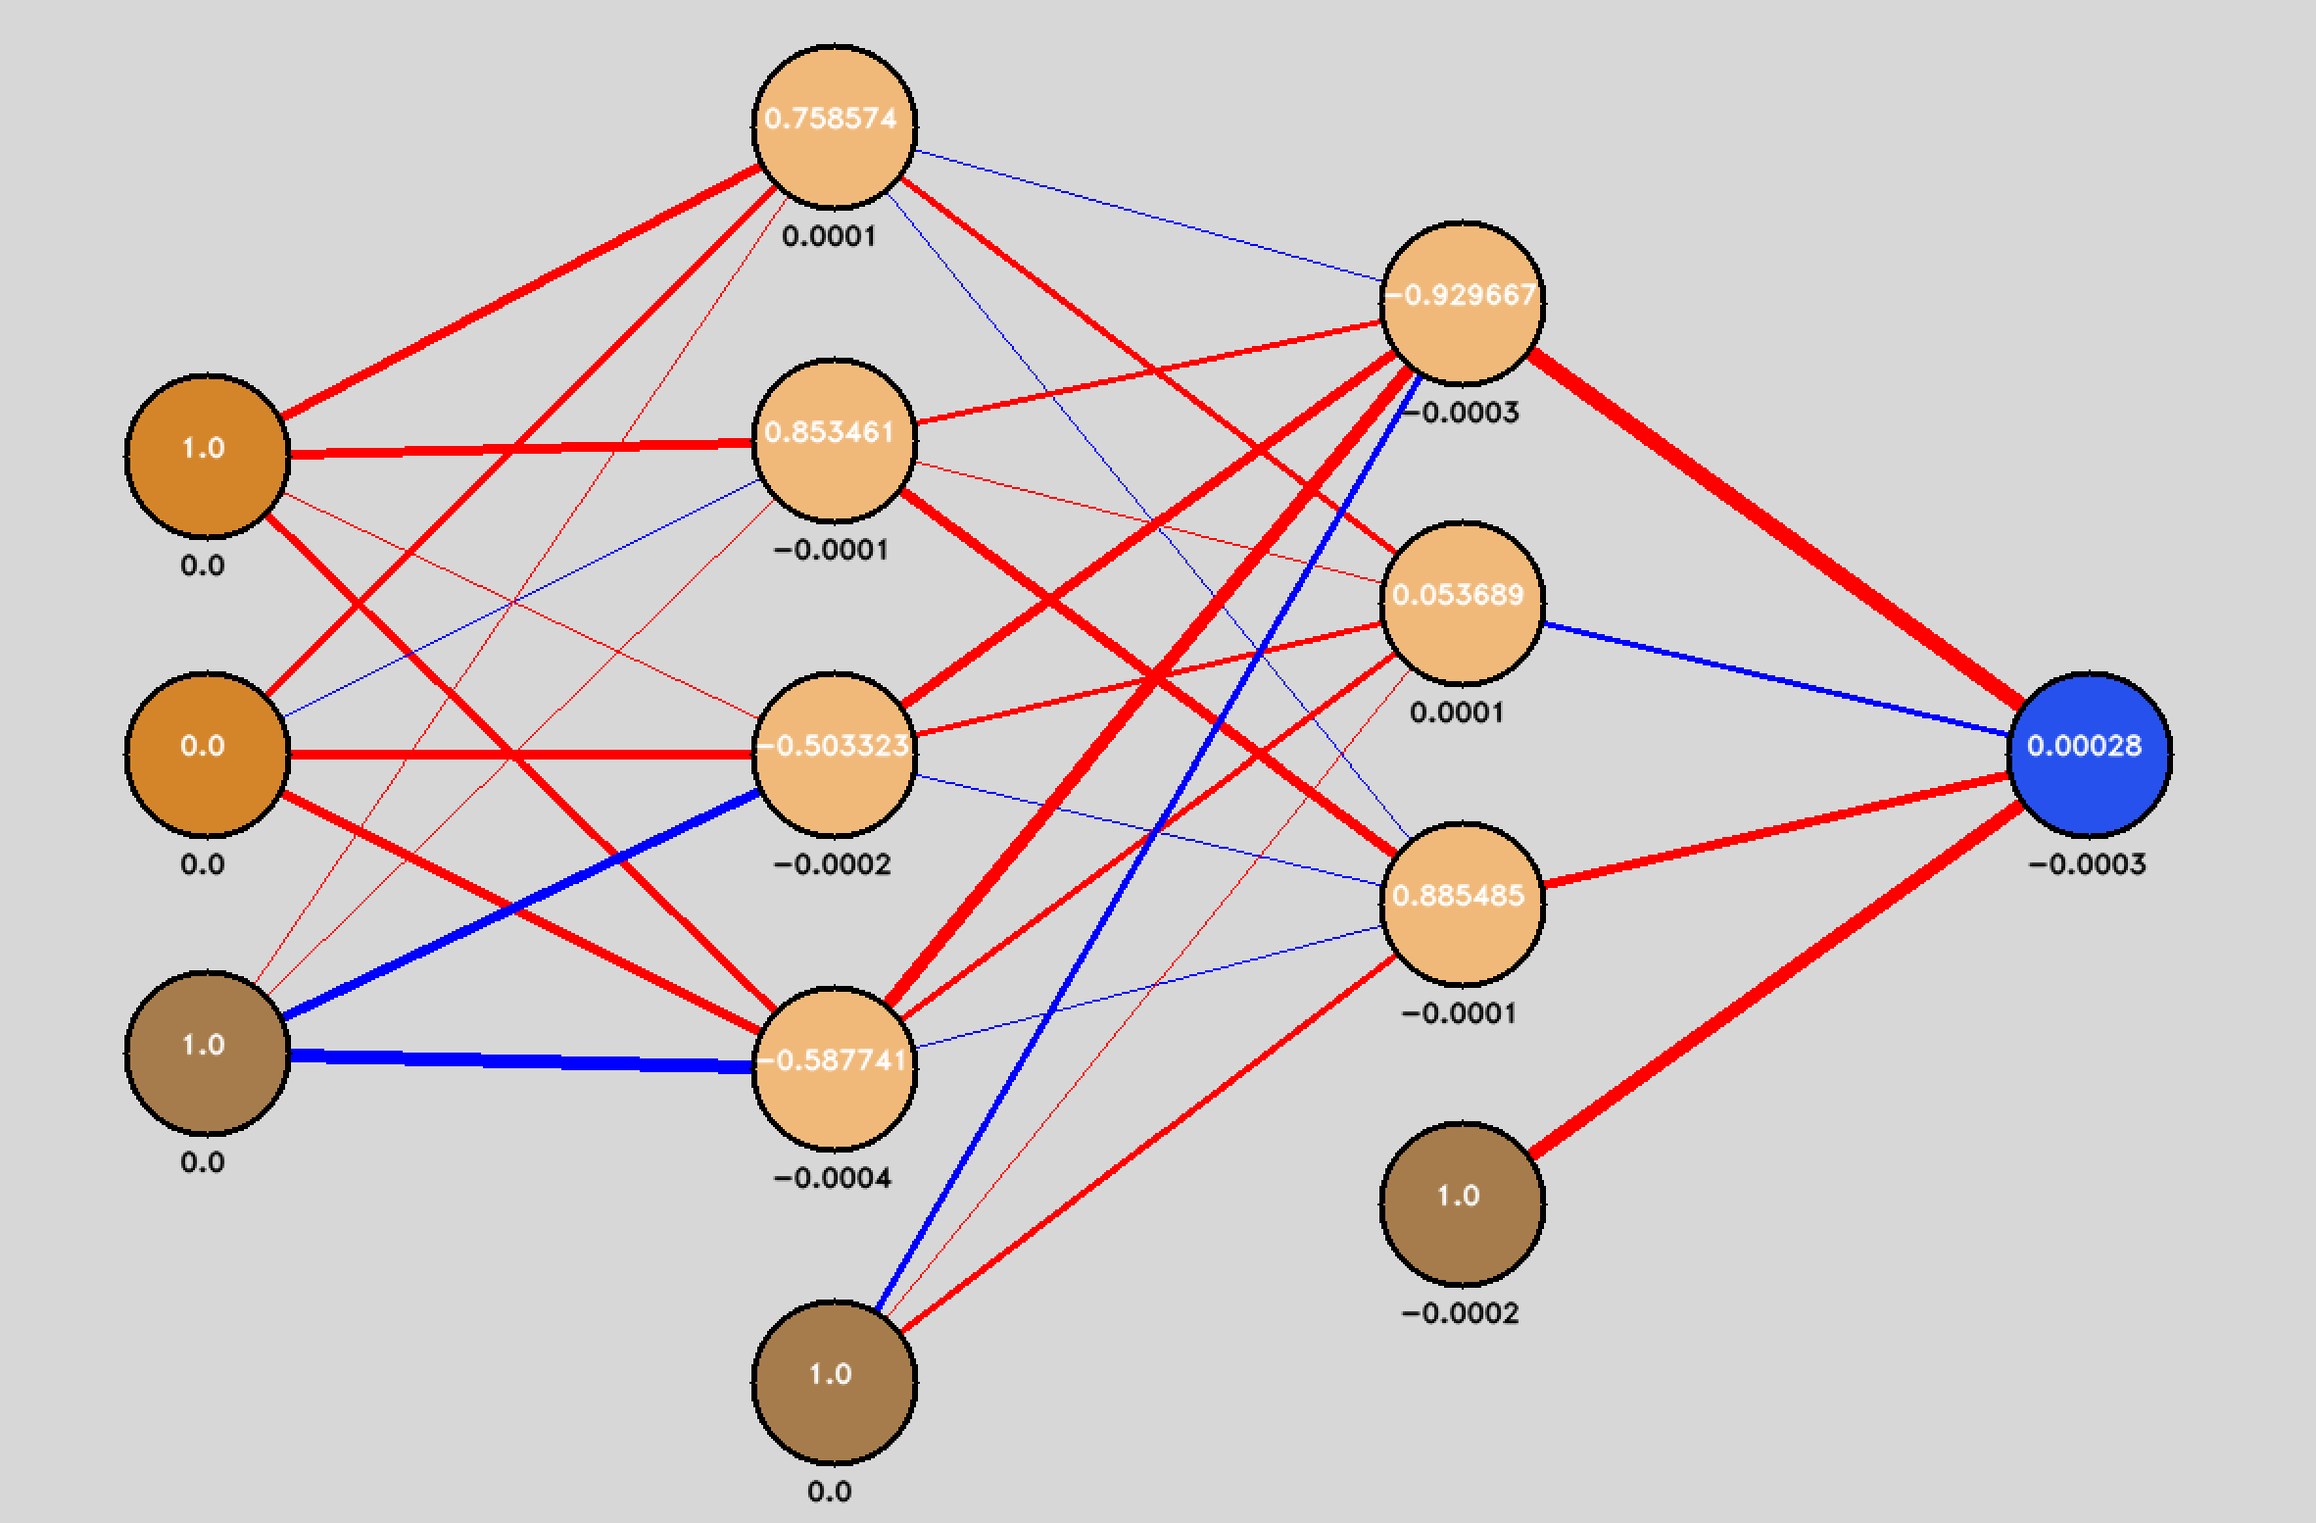
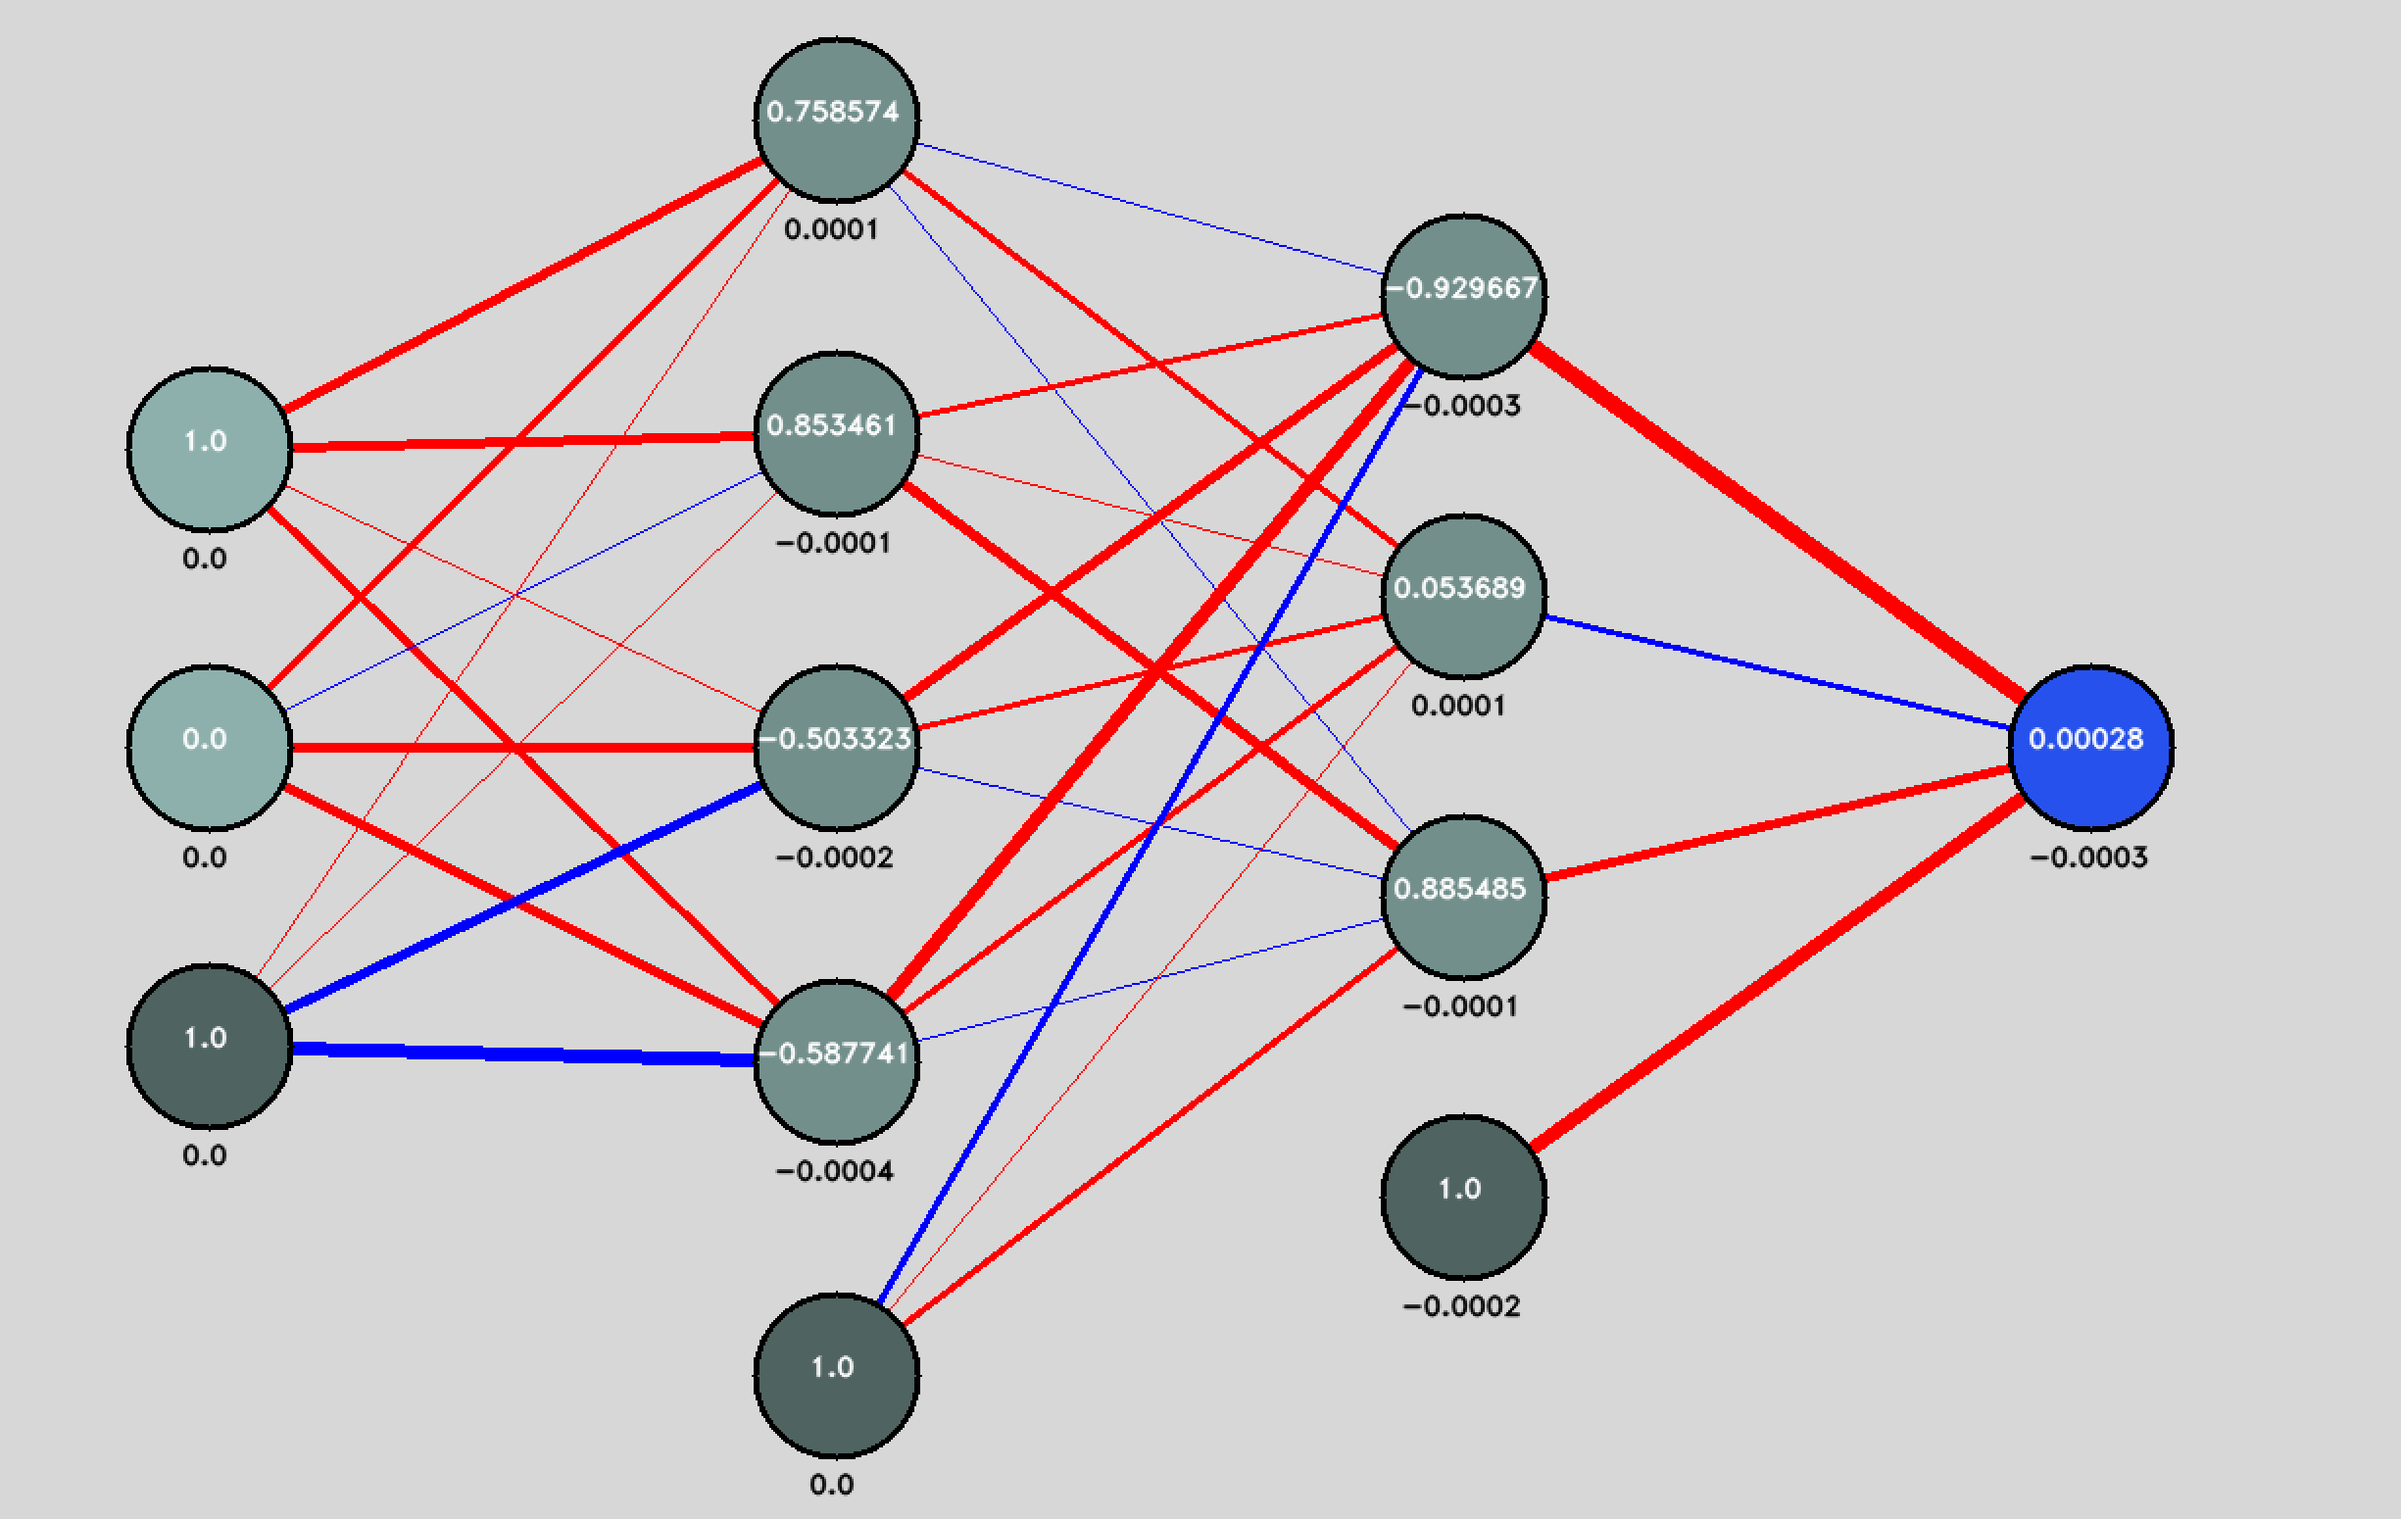
changed visualizer color

diff --git a/displayNetwork.py b/displayNetwork.py
@@ -9,10 +9,10 @@ font = cv.FONT_HERSHEY_DUPLEX
 IMAGE_WIDTH = 1280
 IMAGE_HEIGHT = 800
 
-INPUT_COLOR = (42, 133, 212)
+INPUT_COLOR = (173, 176, 141)
 OUTPUT_COLOR = (237, 81, 38)
-HIDDEN_COLOR = (122, 185, 240)
-BIAS_COLOR = (76, 124, 166)
+HIDDEN_COLOR = (140, 143, 114)
+BIAS_COLOR = (96, 99, 79)
 
 img = np.zeros((IMAGE_HEIGHT,IMAGE_WIDTH,3), np.uint8)
 img.fill(215)
